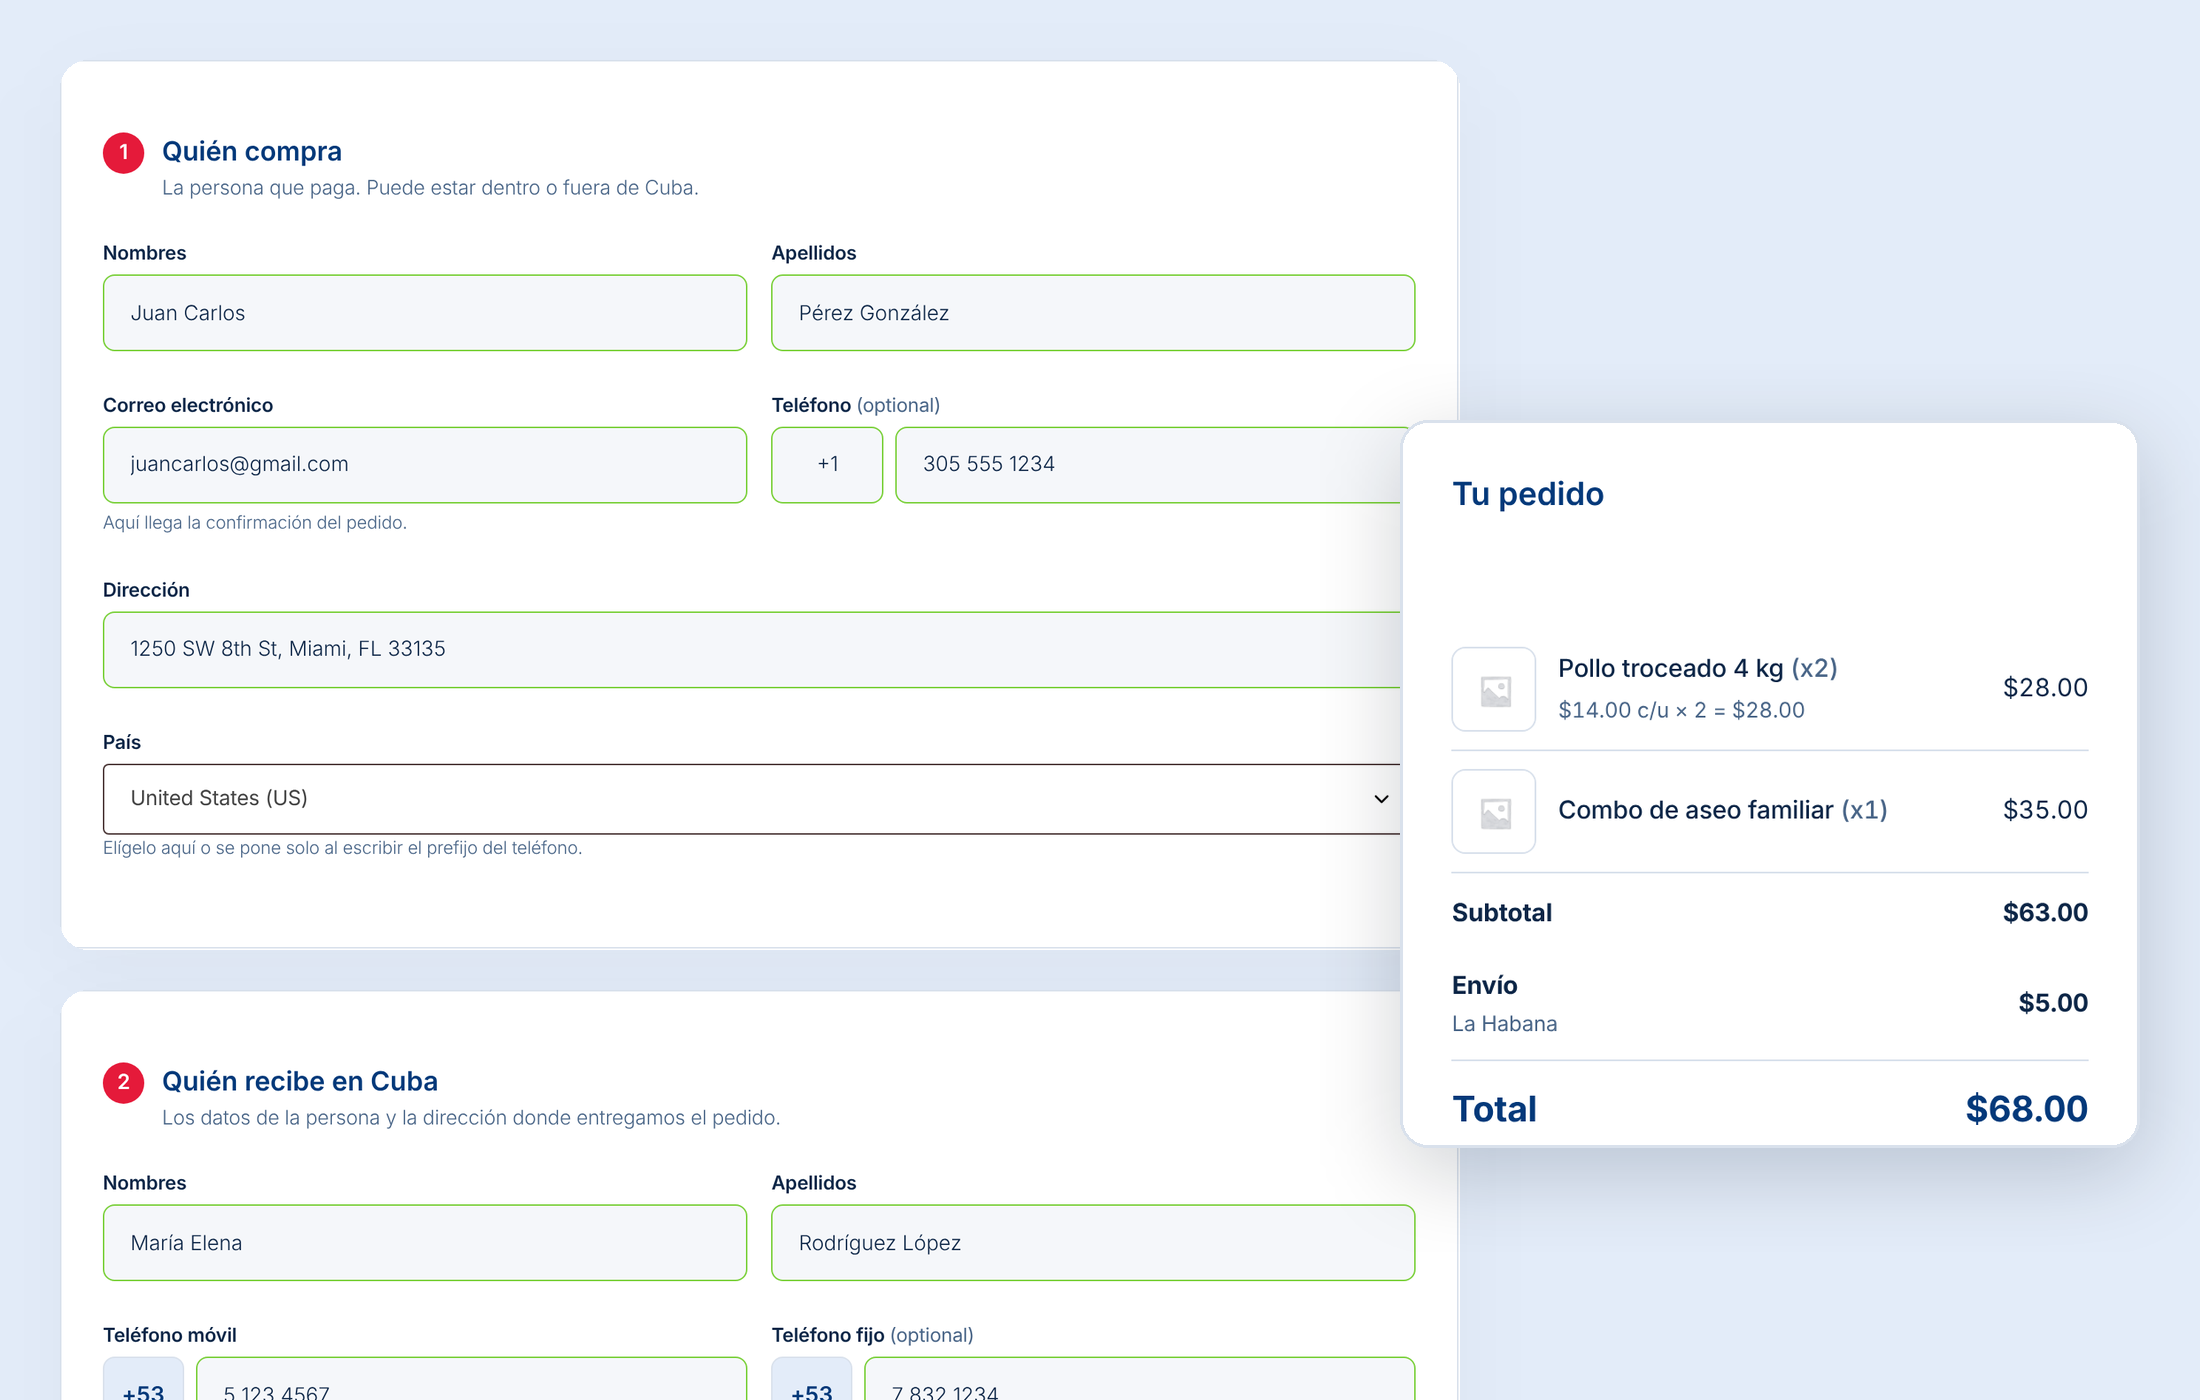
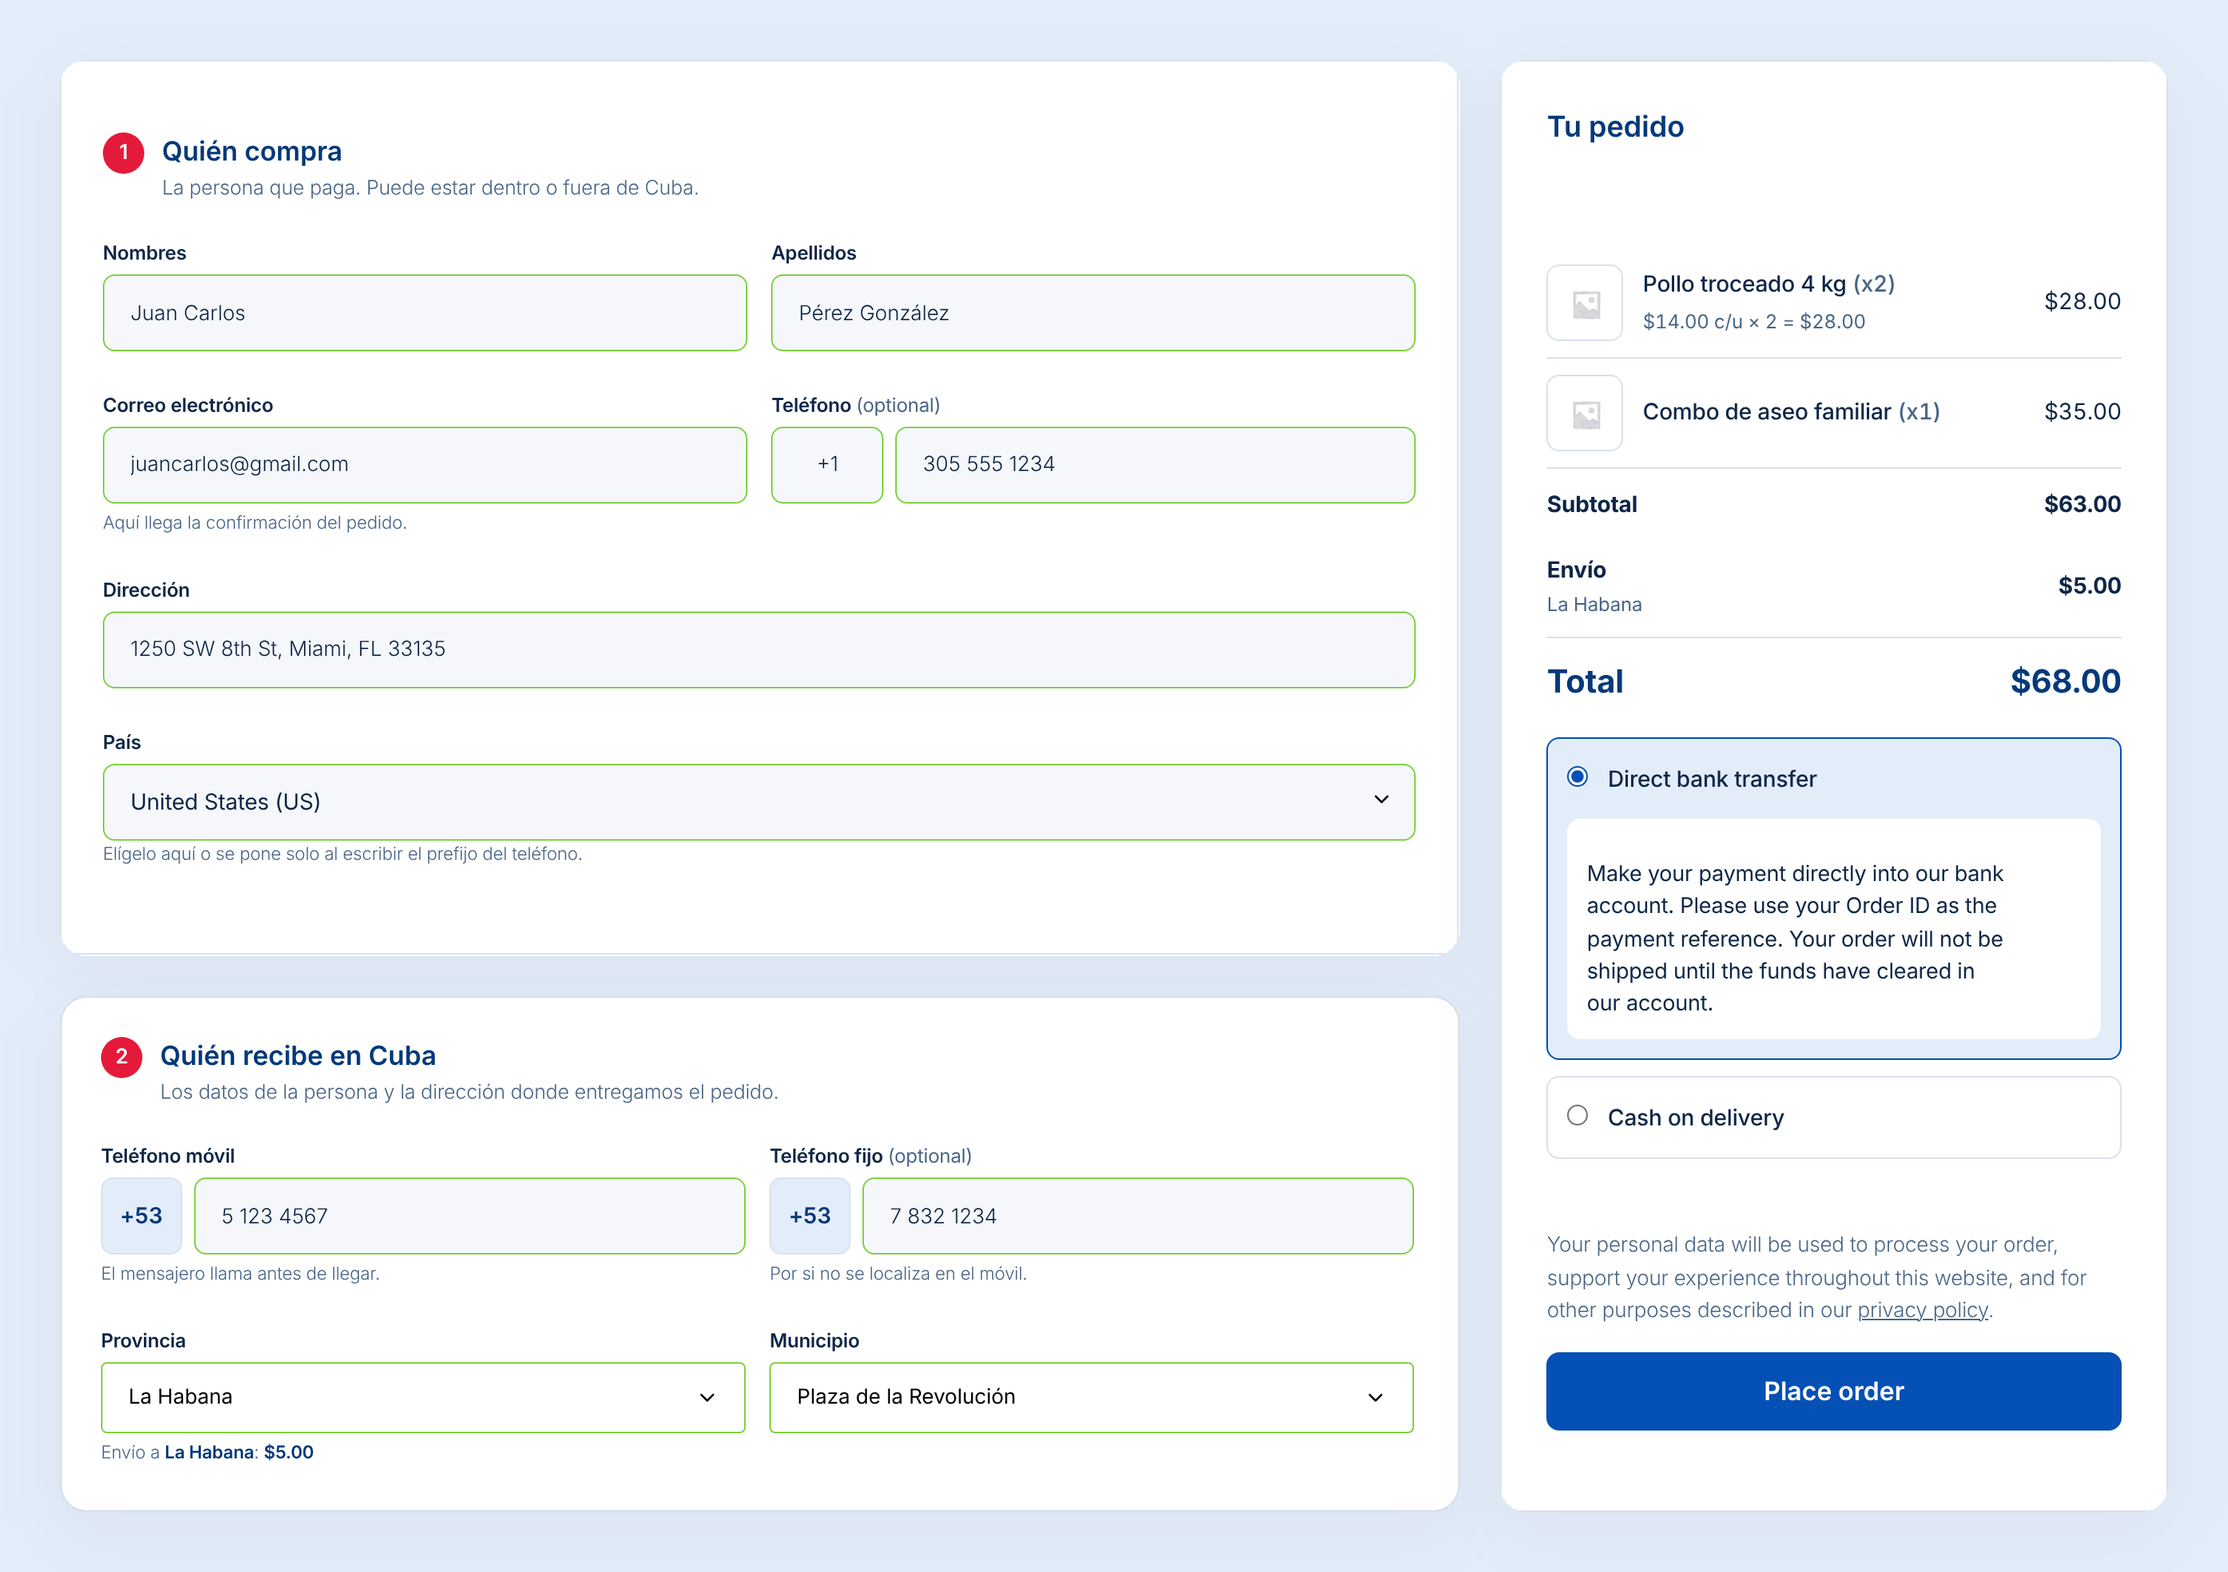
1.6.2: campo País con el mismo estilo que los demás; imagen principal y captura sin cortes
Claude-Session: https://claude.ai/code/session_01EWhmGeABX6mTrDuc7dUCjf

diff --git a/assets/css/e2c-checkout.css b/assets/css/e2c-checkout.css
@@ -141,6 +141,24 @@ body.e2c-wide .woocommerce:has(form.e2c-form) {
 .e2c-form .form-row.woocommerce-validated input.input-text,
 .e2c-form .form-row.woocommerce-validated select { border-color: var(--e2c-line); }
 
+/* Selector de país (WooCommerce lo convierte en un buscador): mismo aspecto que los demás campos */
+.e2c-form .e2c-fields .select2-container { width: 100% !important; }
+.e2c-form .e2c-fields .select2-container .select2-selection--single {
+	height: auto; min-height: 44px; display: flex; align-items: center;
+	background: var(--e2c-bg); border: 1px solid var(--e2c-line); border-radius: 8px; box-shadow: none;
+}
+.e2c-form .e2c-fields .select2-container .select2-selection--single .select2-selection__rendered {
+	font-size: 15px; color: var(--e2c-fg); line-height: 1.4; padding: 10px 40px 10px 12px;
+}
+.e2c-form .e2c-fields .select2-container .select2-selection--single .select2-selection__placeholder { color: var(--e2c-muted); }
+.e2c-form .e2c-fields .select2-container .select2-selection--single .select2-selection__arrow { height: 100%; top: 0; right: 10px; }
+.e2c-form .e2c-fields .select2-container--focus .select2-selection--single,
+.e2c-form .e2c-fields .select2-container--open .select2-selection--single { outline: 2px solid var(--e2c-accent); outline-offset: 1px; border-color: transparent; background: var(--e2c-surface); }
+.woocommerce form .e2c-fields .form-row.woocommerce-validated .select2-container:not(.select2-container--open) .select2-selection,
+.e2c-form .e2c-fields .form-row.woocommerce-validated .select2-container:not(.select2-container--open) .select2-selection { border-color: var(--wc-green, #7ad03a); }
+.woocommerce form .e2c-fields .form-row.woocommerce-invalid .select2-container:not(.select2-container--open) .select2-selection,
+.e2c-form .e2c-fields .form-row.woocommerce-invalid .select2-container:not(.select2-container--open) .select2-selection { border-color: var(--e2c-err); background: var(--e2c-err-soft); }
+
 /* Cuenta */
 .e2c-form .woocommerce-account-fields .create-account label { display: flex; gap: 8px; align-items: center; font-weight: 500; }
 

diff --git a/docs/index.html b/docs/index.html
@@ -155,7 +155,7 @@ footer a { color: var(--white); }
 			</div>
 			<p class="meta">WordPress 6.0+ · WooCommerce 7.0+ · PHP 7.4+ · Español e inglés</p>
 		</div>
-		<div class="shot"><img src="screenshots/hero.png" alt="Checkout de Easy2Cuba: Quién compra con su país, Quién recibe en Cuba y el resumen del pedido con el envío por provincia" width="2200" height="1400"></div>
+		<div class="shot"><img src="screenshots/hero.png" alt="Checkout de Easy2Cuba: Quién compra con su país, Quién recibe en Cuba y el resumen del pedido con el envío por provincia" width="2228" height="1572"></div>
 	</div>
 </div>
 

diff --git a/assets/js/e2c-checkout.js b/assets/js/e2c-checkout.js
@@ -80,6 +80,7 @@
 		var codes = D.prefixes[ k ].split( ' ' );
 		// Si el país elegido ya comparte ese prefijo (p. ej. +1 Canadá), se respeta.
 		if ( codes.indexOf( $c.val() ) !== -1 ) {
+			$c.trigger( 'validate' );
 			return;
 		}
 		if ( $c.find( 'option[value="' + billCountry + '"]' ).length ) {

diff --git a/easy2cuba-for-woocommerce.php b/easy2cuba-for-woocommerce.php
@@ -2,7 +2,7 @@
 /**
  * Plugin Name:       Easy2Cuba for WooCommerce
  * Description:       Checkout pensado para vender desde cualquier país y enviar a Cuba. Separa quién compra y quién recibe, incluye las 15 provincias y los 168 municipios de Cuba, cobra el envío según la provincia (con provincias activables), muestra el pedido con fotos, cantidades y precio por unidad, y es compatible con las pasarelas de pago de WooCommerce. Al confirmarse el pago envía por correo un PDF informativo con todos los datos de la entrega, con registro de documentos, logo propio, SMTP opcional y herramientas de privacidad. En español e inglés.
- * Version:           1.6.1
+ * Version:           1.6.2
  * Author:            GMETI
  * Author URI:        https://gmeti.com
  * Text Domain:       easy2cuba-for-woocommerce
@@ -20,7 +20,7 @@ if ( ! defined( 'ABSPATH' ) ) {
 	exit;
 }
 
-define( 'E2C_VERSION', '1.6.1' );
+define( 'E2C_VERSION', '1.6.2' );
 define( 'E2C_FILE', __FILE__ );
 define( 'E2C_PATH', plugin_dir_path( __FILE__ ) );
 define( 'E2C_URL', plugin_dir_url( __FILE__ ) );
